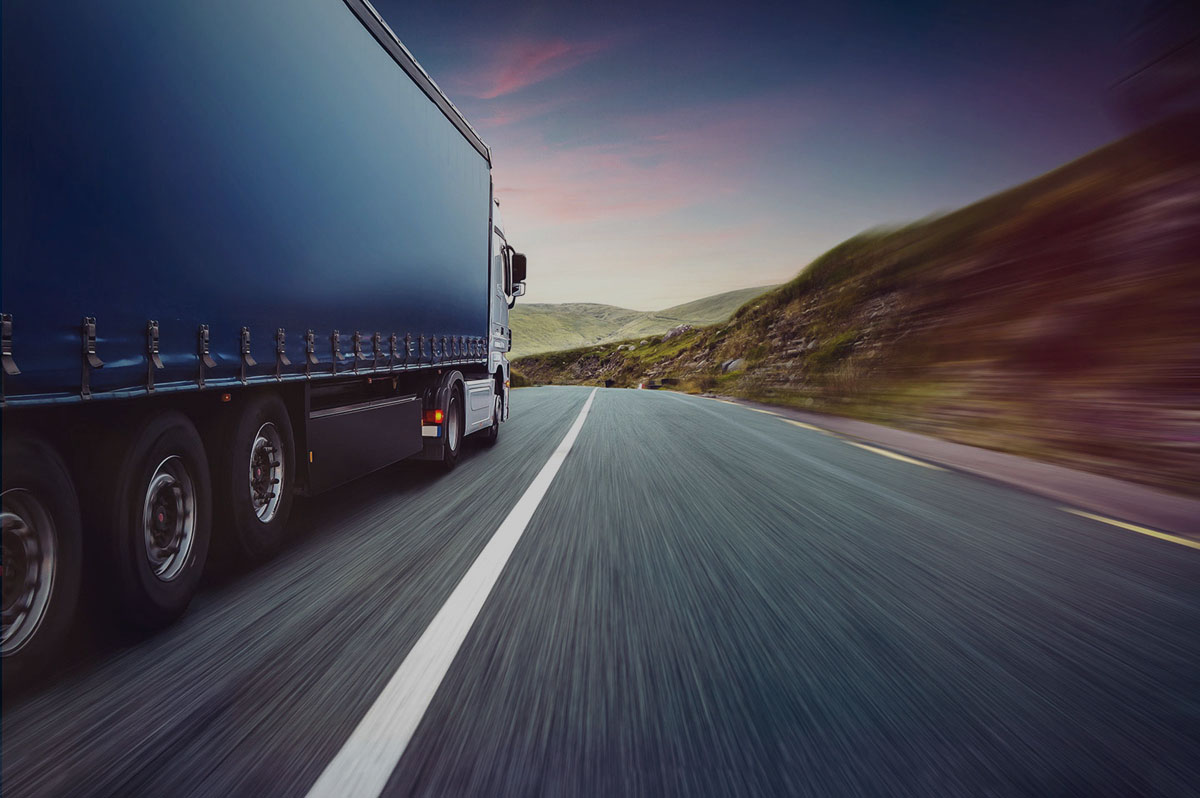
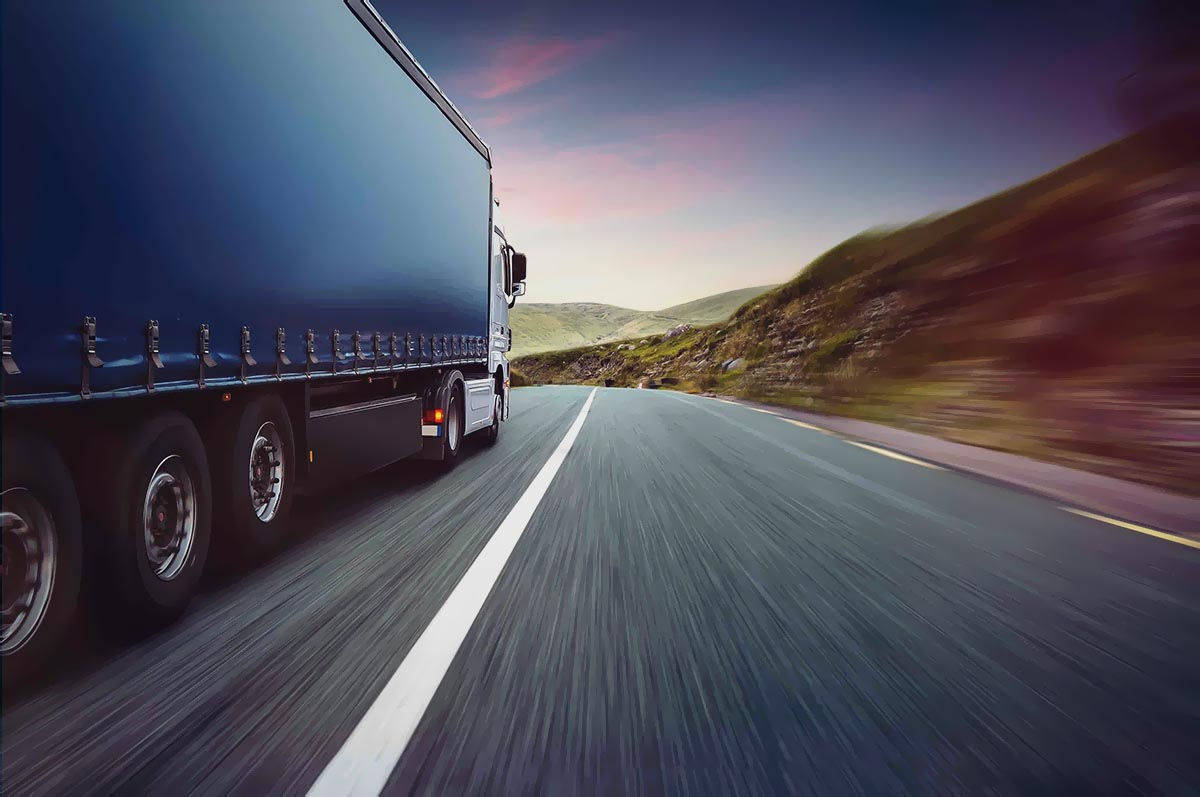
new images

diff --git a/index.html b/index.html
@@ -58,7 +58,7 @@
               <p class="box bottom">Transportes</p>
           </div>
           <div class="social-nav">
-              <h1>Visitenos en</h1>
+              <h1>Visitanos en</h1>
               <div class="facebook-bot"><a href="https://www.facebook.com/MudanzaMalpartida/"><i class="fa fa-border-bot fa-facebook-f"></i></a></div>
               <div class="google-bot"><a href="https://plus.google.com/u/0/b/114282812073192977508/+TransportesyMudanzasMalpartidaLince/about"><i class="fa fa-border-bot fa-google-plus"></i></a></div>
           </div>
@@ -73,14 +73,13 @@
             </ol>
 
             <div class="carousel-inner">
-              <div class="item active" style="background-image: url(&quot;img/center3.jpg&quot;);">
+              <div class="item active" style="background-image: url(&quot;img/hero1.jpg&quot;);">
                 <div class="carousel-caption">
                   <p class="phra">Recibe un soporte especializado en mudanzas de principio a fin </p>
                   <a class="btn-hero orange" href="form.html"><p>Solicita una cotización</p></a>
                 </div>
               </div>
                 <div class="item" style="background-image: url(&quot;img/hero2.jpg&quot;);">
-
                     <div class="carousel-caption">
                       <p class="phra phra-2">Servicio de transporte integral y personalizado</p>
                       <a class="btn-hero orange" href="#contact"><p>Contactanos</p></a>
@@ -172,7 +171,7 @@
         </div>
 
         <div class="social">
-            <h1>Visitenos en</h1>
+            <h1>Visitanos en</h1>
             <div class="facebook-bot"><a href="https://www.facebook.com/MudanzaMalpartida/"><i class="fa fa-border-bot fa-facebook-f"></i></a></div>
             <div class="google-bot"><a href="https://plus.google.com/u/0/b/114282812073192977508/+TransportesyMudanzasMalpartidaLince/about"><i class="fa fa-border-bot fa-google-plus"></i></a></div>
         </div>

diff --git a/form.html b/form.html
@@ -57,6 +57,11 @@
               <p class="box middle">Mudanzas</p>
               <p class="box bottom">Transportes</p>
           </div>
+          <div class="social-nav">
+              <h1>Visitanos en</h1>
+              <div class="facebook-bot"><a href="https://www.facebook.com/MudanzaMalpartida/"><i class="fa fa-border-bot fa-facebook-f"></i></a></div>
+              <div class="google-bot"><a href="https://plus.google.com/u/0/b/114282812073192977508/+TransportesyMudanzasMalpartidaLince/about"><i class="fa fa-border-bot fa-google-plus"></i></a></div>
+          </div>
     </nav>
     <main>
         <form method="post">
@@ -173,7 +178,7 @@
         </div>
 
         <div class="social">
-            <h1>Visitenos en</h1>
+            <h1>Visitanos en</h1>
             <div class="facebook-bot"><a href="https://www.facebook.com/MudanzaMalpartida/"><i class="fa fa-border-bot fa-facebook-f"></i></a></div>
             <div class="google-bot"><a href="https://plus.google.com/u/0/b/114282812073192977508/+TransportesyMudanzasMalpartidaLince/about"><i class="fa fa-border-bot fa-google-plus"></i></a></div>
         </div>
